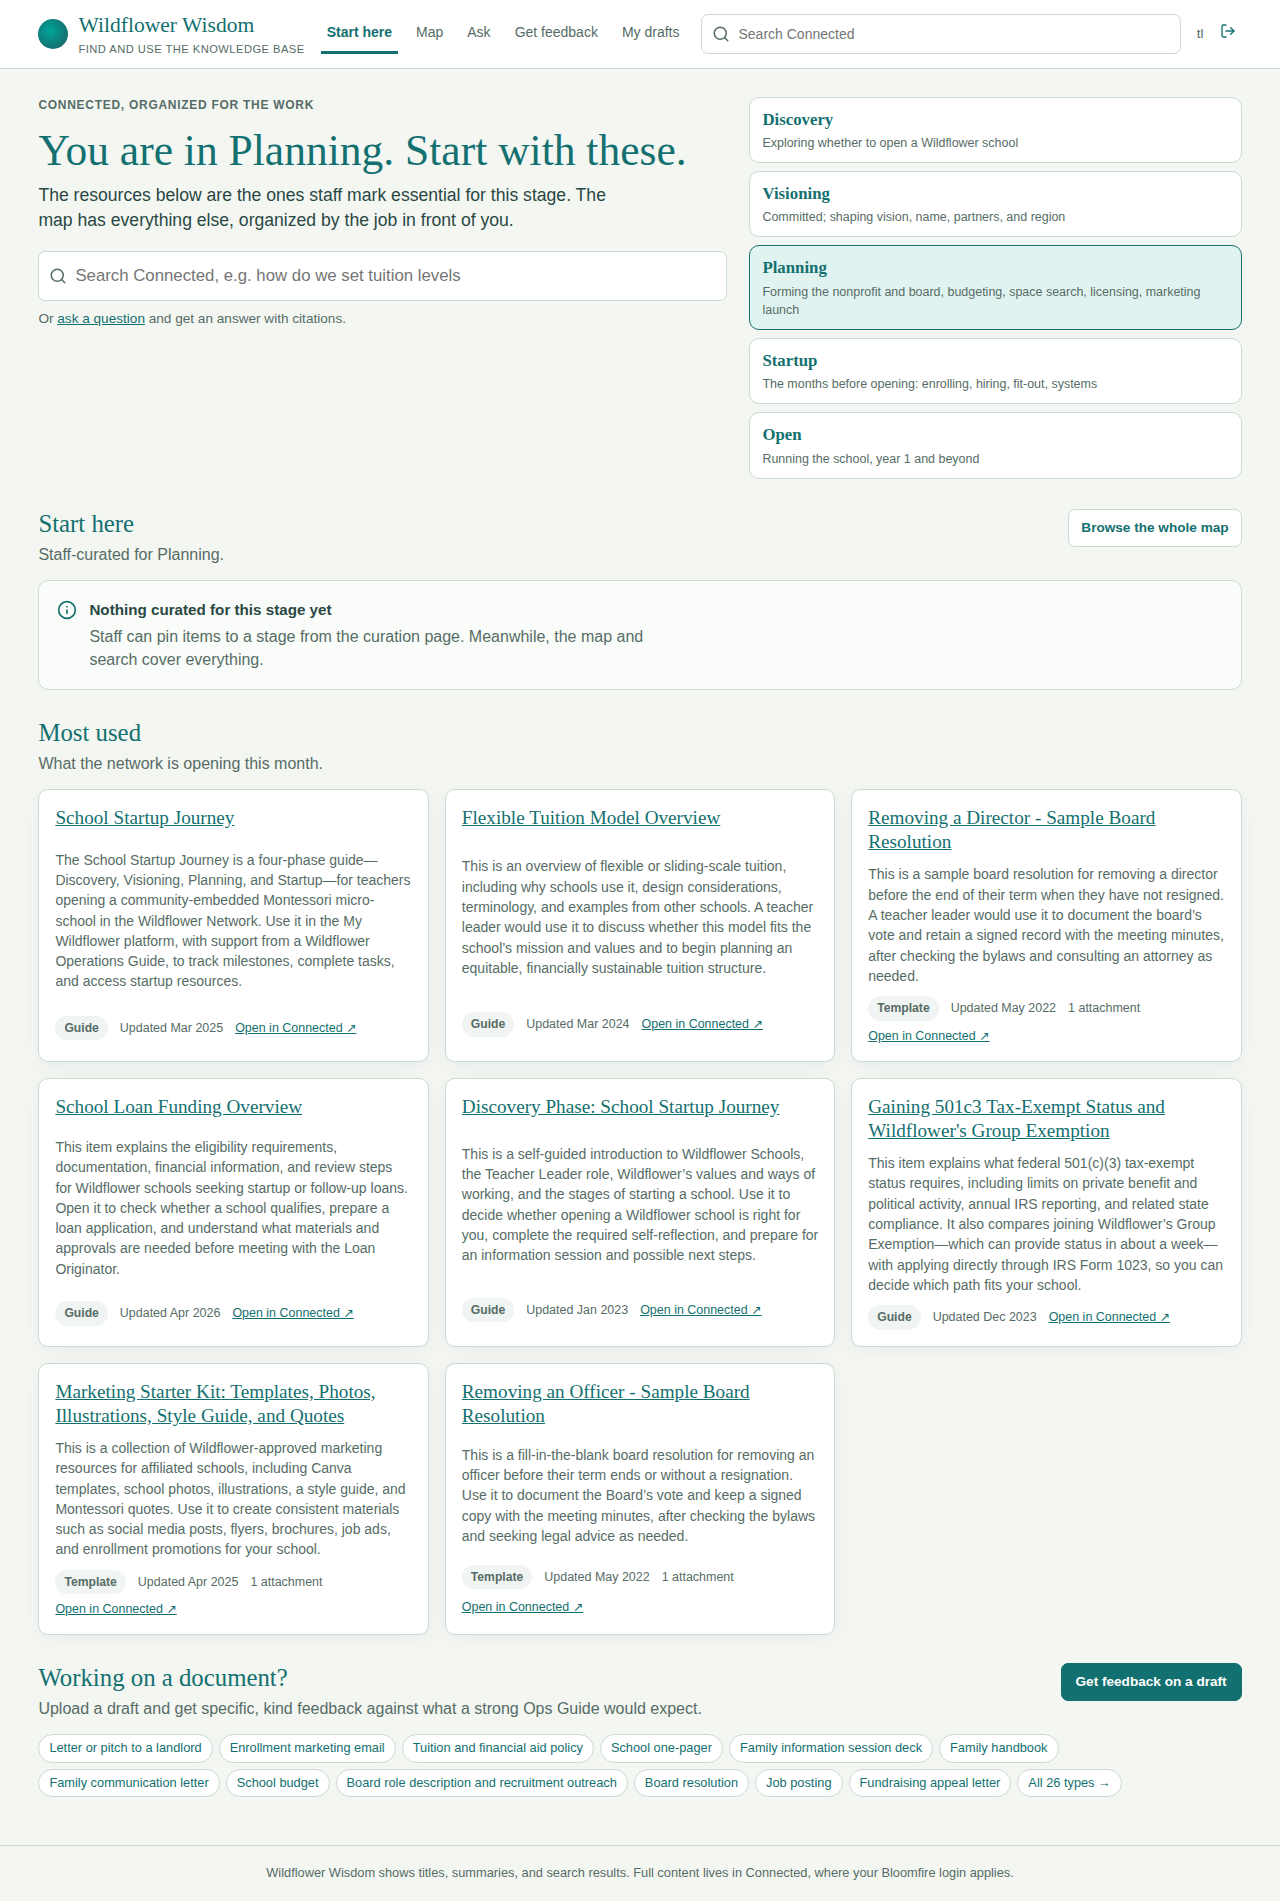
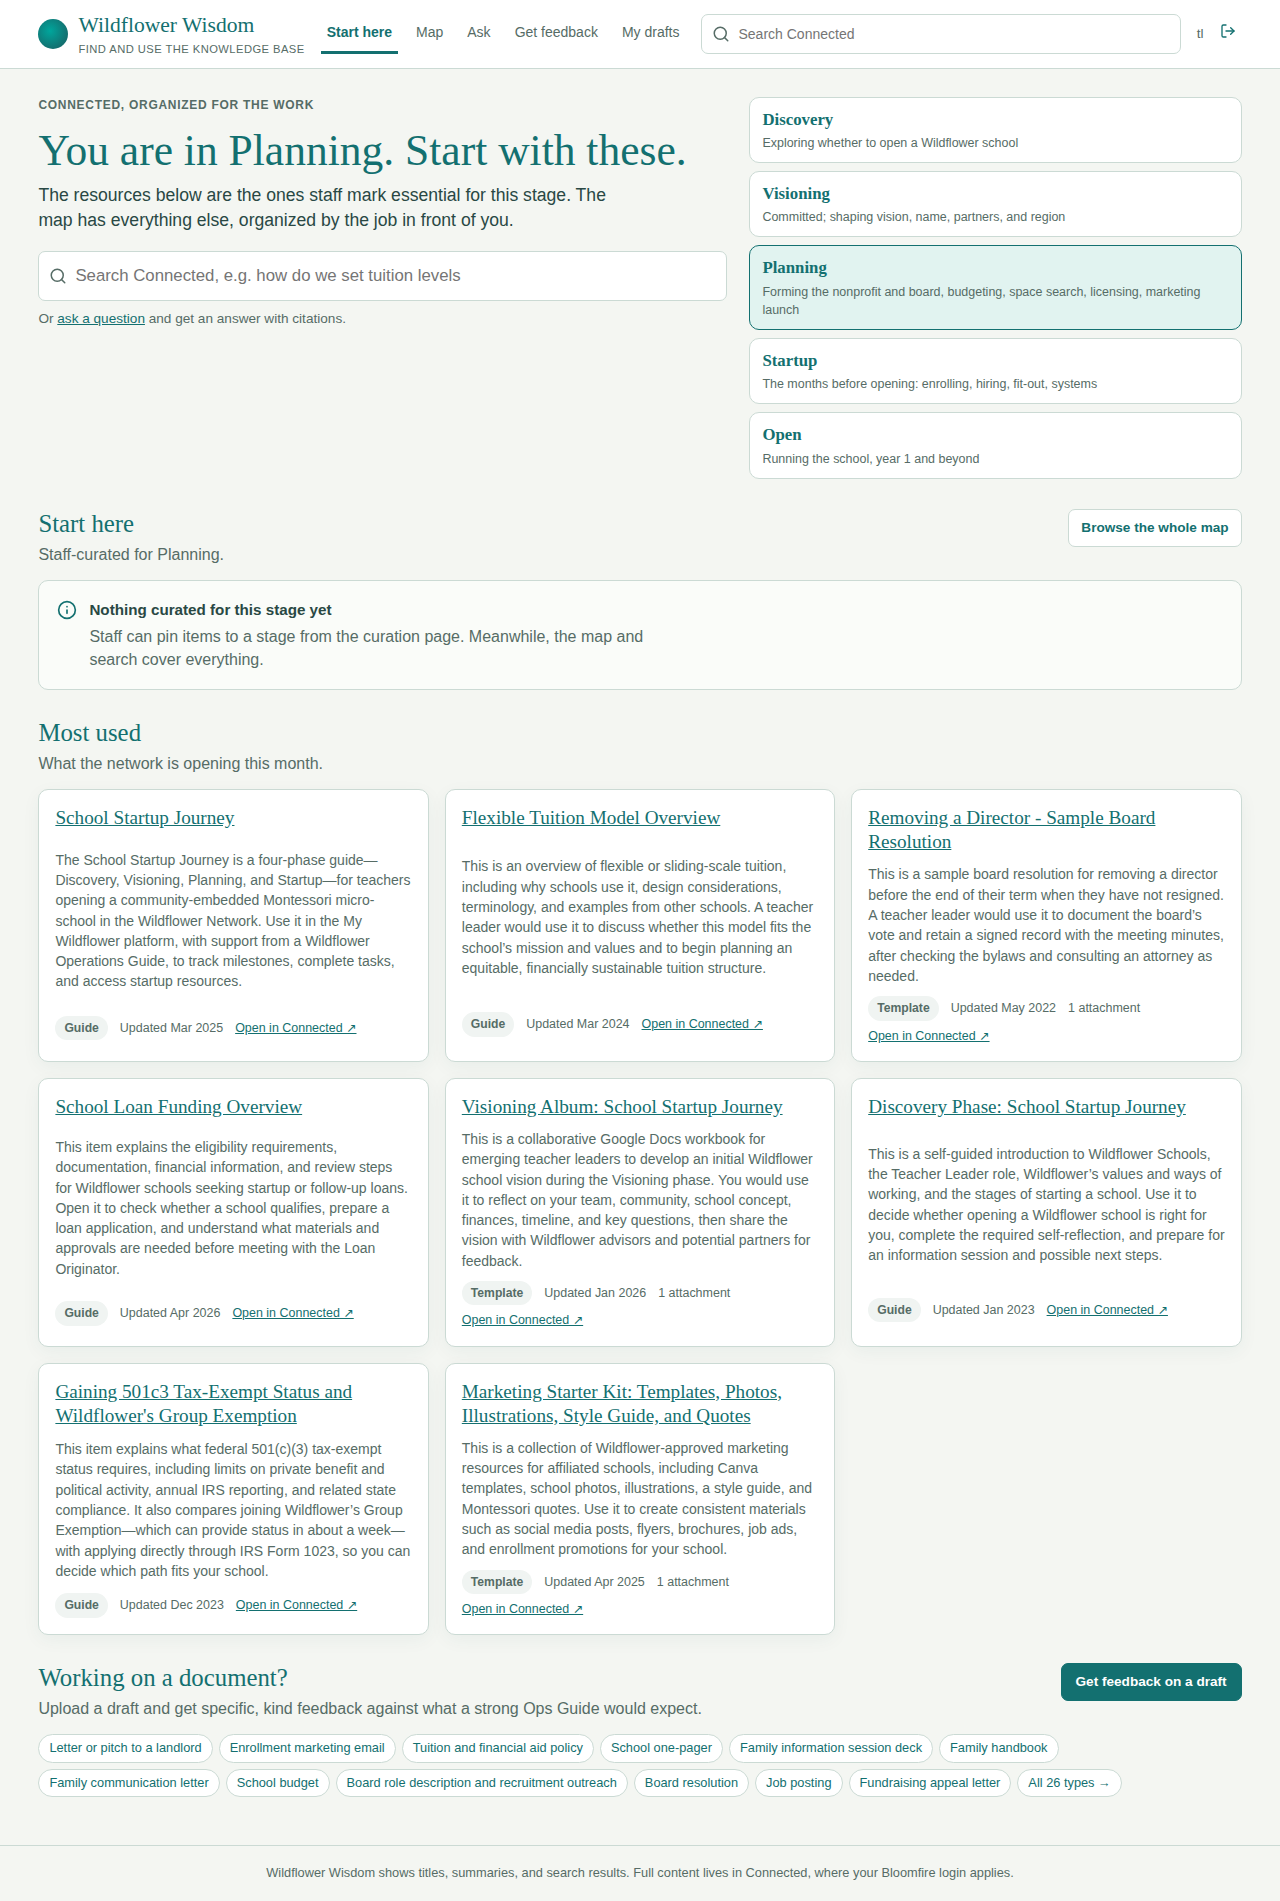
Fix admin item placements query; harden browser check
Claude-Session: https://claude.ai/code/session_01Ts2HUf2fGBp6TsbYyVR1CJ

Changed region(s): [[0.3438, 0.5587, 0.625, 0.869], [0.6562, 0.5587, 0.9688, 0.7138], [0.0312, 0.7138, 0.3125, 0.869]]

diff --git a/apps/api/src/routes/admin.ts b/apps/api/src/routes/admin.ts
@@ -1,6 +1,6 @@
 import { Router, type Request } from "express";
 import { z } from "zod";
-import { and, asc, auditLog, basePromptVersions, desc, eq, getDb, indexRuns, itemMeta, items, jobs, materialTypeVersions, materialTypes, placements, sql, submissions, subjobs, typeResources, users, chatTurns, searchLog } from "@wfw/db";
+import { and, asc, auditLog, inArray, basePromptVersions, desc, eq, getDb, indexRuns, itemMeta, items, jobs, materialTypeVersions, materialTypes, placements, sql, submissions, subjobs, typeResources, users, chatTurns, searchLog } from "@wfw/db";
 import { SETTING_DEFAULTS, STAGES, type ReviewResult, type Settings } from "@wfw/shared";
 import { actor, requireStaff } from "../auth.js";
 import { respondJson } from "../lib/openai.js";
@@ -112,7 +112,7 @@ adminRouter.get("/items", async (req, res) => {
   if (filter === "linkonly") conds.push(eq(items.linkOnly, true));
   const rows = await db.select({ ...itemSelect, pinnedStage: itemMeta.pinnedStage, pinnedPosition: itemMeta.pinnedPosition, staffNote: itemMeta.staffNote, hasText: items.hasText }).from(items).leftJoin(itemMeta, eq(itemMeta.itemId, items.id)).where(and(...conds)).orderBy(desc(sql`coalesce(${itemMeta.score},0)`), desc(items.views)).limit(size).offset(page * size);
   const ids = rows.map((r) => r.id);
-  const pl = ids.length ? await db.select({ itemId: placements.itemId, key: subjobs.key, name: subjobs.name, isPrimary: placements.isPrimary, position: placements.position }).from(placements).innerJoin(subjobs, eq(subjobs.id, placements.subjobId)).where(sql`${placements.itemId} = any(${ids}::uuid[])`) : [];
+  const pl = ids.length ? await db.select({ itemId: placements.itemId, key: subjobs.key, name: subjobs.name, isPrimary: placements.isPrimary, position: placements.position }).from(placements).innerJoin(subjobs, eq(subjobs.id, placements.subjobId)).where(inArray(placements.itemId, ids)) : [];
   res.json({ items: rows.map((r) => ({ ...toSummary(r as ItemRow), hidden: r.hidden, pinnedStage: r.pinnedStage, pinnedPosition: r.pinnedPosition, staffNote: r.staffNote, reviewStatus: r.reviewStatus, hasText: r.hasText, placements: pl.filter((p) => p.itemId === r.id) })), page, size });
 });
 adminRouter.patch("/items/:id/meta", async (req, res) => {
